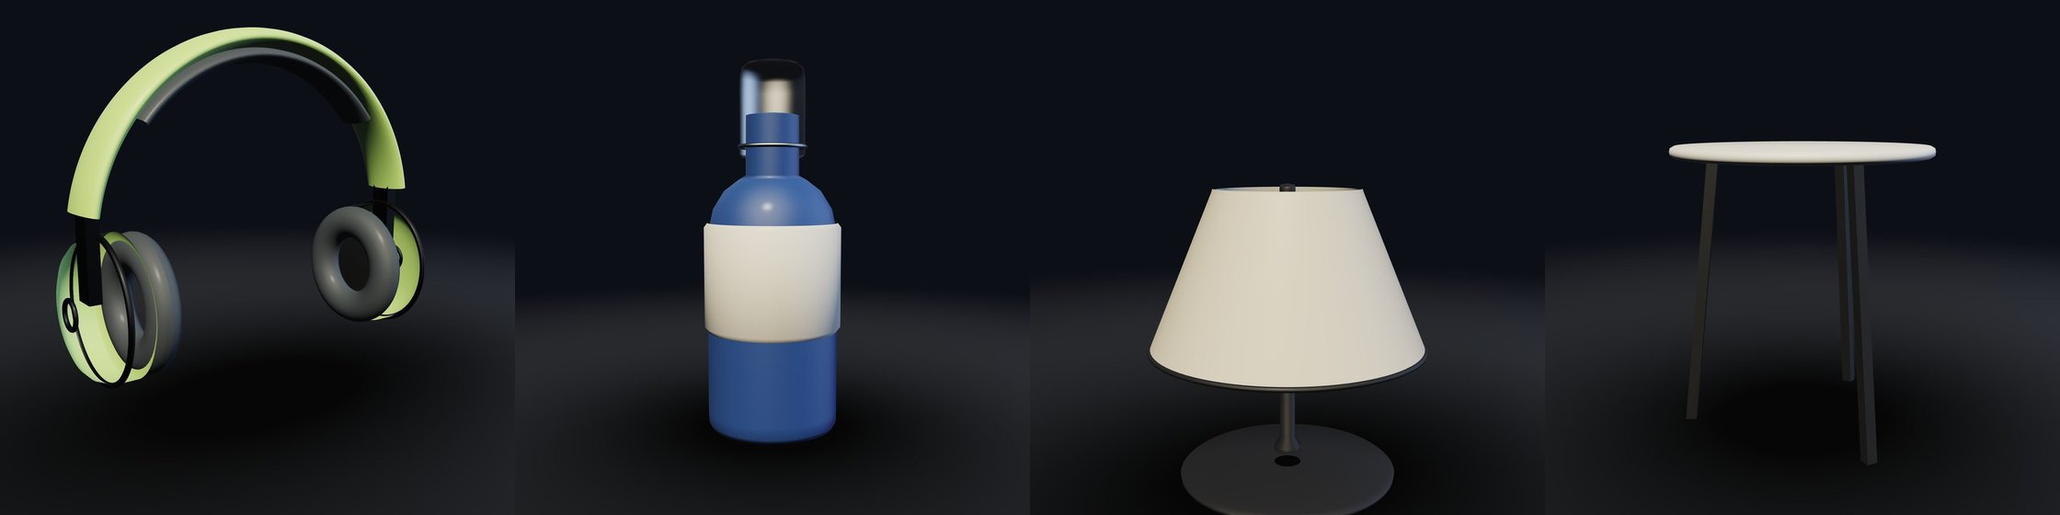
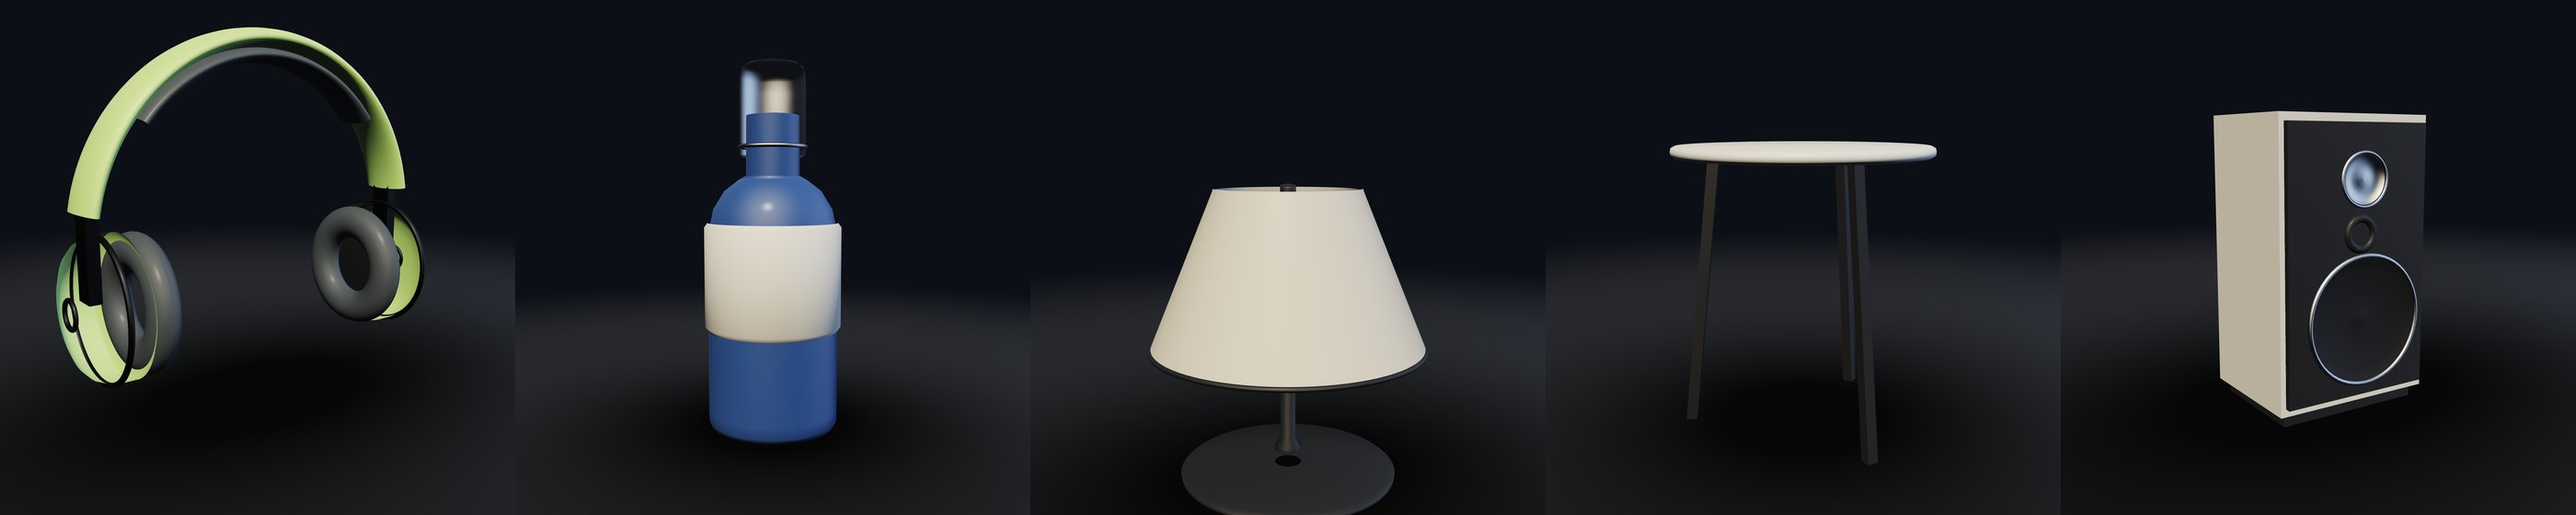
Regenerate the pack at 480, and pick the listing images deliberately
The full run finished: 480 renders, 357 MB, which is the number the listing
already claimed. manifest.csv, the contact sheet, the thirty gallery heroes
and the portfolio banner are all rebuilt from it, and the public gallery now
shows every configuration rather than the twenty-four it had before.

Two things the generator was getting wrong, both only visible in the output:

The gallery builder sorted products against a hardcoded list of four and
crashed on 'speaker'. It now fails with a message naming the product to add,
rather than a ValueError from inside a sort key — the next product should not
cost anyone the ten minutes of reading a traceback that this one did.

The "four lighting presets" strip picked whichever speaker configuration came
first out of the dict, which turned out to be a black cabinet with the grille
fitted. Four near-identical dark slabs, for an image whose entire job is to
show the presets apart. It now picks a pale cabinet with the drivers exposed,
and the four presets are obvious at a glance.

Also adds gallery-colourways.jpg — one product across its six finishes — so
both of the listing's composed gallery slots exist as files instead of as a
manual step that never gets done.

Claude-Session: https://claude.ai/code/session_01NKCR5wESwo1fq5VH4T8GRn

diff --git a/portfolio/renders/index.html b/portfolio/renders/index.html
@@ -3,7 +3,16 @@
 <meta charset="utf-8">
 <meta name="viewport" content="width=device-width,initial-scale=1">
 <title>Studio Product Renders — Volume 1</title>
-<meta name="description" content="384 royalty-free 3D product renders at 2000x2000. Four products, six colourways each, four lighting setups, four camera angles — one consistent studio rig across every frame.">
+<meta name="description" content="480 royalty-free 3D product renders at 2000x2000. Five products, six colourways each, four lighting setups, four camera angles — one consistent studio rig across every frame.">
+<link rel="canonical" href="https://sushir-saxon.upfling.site/renders/">
+<meta property="og:type" content="website">
+<meta property="og:site_name" content="Sushir 3D Studio">
+<meta property="og:title" content="Studio Product Renders — Volume 1">
+<meta property="og:description" content="480 royalty-free 3D product renders at 2000x2000. One hand-written WebGL2 renderer, one lighting rig, every frame consistent.">
+<meta property="og:url" content="https://sushir-saxon.upfling.site/renders/">
+<meta property="og:image" content="https://sushir-saxon.upfling.site/renders/hero.jpg">
+<meta property="og:image:alt" content="Studio-lit renders of headphones, a bottle, a lamp, a side table and a bookshelf speaker, side by side">
+<meta name="twitter:card" content="summary_large_image">
 <style>
 :root{--bg:#05070b;--fg:#e8eef7;--dim:#8b97a8;--line:#1a2331;--acc:#6fe9ff}
 *{box-sizing:border-box}
@@ -30,6 +39,15 @@ ul.plain{color:var(--dim);max-width:68ch;padding-left:20px}
 ul.plain b{color:var(--fg)}
 footer{padding:40px 0 72px;color:var(--dim);font-size:14px;border-top:1px solid var(--line)}
 a{color:var(--acc)}
+.cta{background:linear-gradient(150deg,rgba(111,233,255,.07),rgba(184,255,115,.04));
+  border-radius:18px;padding:34px 30px;margin:44px 0;border:1px solid var(--line)}
+.cta h2{margin-top:0}
+.btnrow{display:flex;flex-wrap:wrap;gap:12px;margin:22px 0 0}
+.btn{display:inline-block;padding:12px 20px;border-radius:999px;font-size:14px;
+  font-weight:700;text-decoration:none;background:var(--acc);color:#04131a;
+  border:1px solid transparent}
+.btn.ghost{background:transparent;color:var(--fg);border-color:var(--line)}
+.btn:hover{opacity:.88}
 </style>
 <div class="wrap">
 <header>
@@ -102,12 +120,12 @@ a{color:var(--acc)}
         <figcaption><b>SERUM 30ML</b><span>Sage</span><code>SER1-SGE-MT-GLD-BLK</code></figcaption>
       </figure>
       <figure>
-        <img src="img/lamp_ARC1-BRS-BLK-DSC-NON_studio_hero.jpg" alt="Table lamp — Brass, studio lighting" loading="lazy" width="900" height="900">
-        <figcaption><b>ARC TABLE LAMP</b><span>Brass</span><code>ARC1-BRS-BLK-DSC-NON</code></figcaption>
+        <img src="img/lamp_ARC1-BRS-BLK-DSC-NON_studio_hero.jpg" alt="Table lamp — Spun brass, studio lighting" loading="lazy" width="900" height="900">
+        <figcaption><b>ARC TABLE LAMP</b><span>Spun brass</span><code>ARC1-BRS-BLK-DSC-NON</code></figcaption>
       </figure>
       <figure>
-        <img src="img/lamp_ARC1-CHR-CHR-DSC-INL_studio_hero.jpg" alt="Table lamp — Chrome, studio lighting" loading="lazy" width="900" height="900">
-        <figcaption><b>ARC TABLE LAMP</b><span>Chrome</span><code>ARC1-CHR-CHR-DSC-INL</code></figcaption>
+        <img src="img/lamp_ARC1-CHR-CHR-DSC-INL_studio_hero.jpg" alt="Table lamp — Charcoal, studio lighting" loading="lazy" width="900" height="900">
+        <figcaption><b>ARC TABLE LAMP</b><span>Charcoal</span><code>ARC1-CHR-CHR-DSC-INL</code></figcaption>
       </figure>
       <figure>
         <img src="img/lamp_ARC1-LIN-BLK-PLT-NON_studio_hero.jpg" alt="Table lamp — Linen, studio lighting" loading="lazy" width="900" height="900">
@@ -130,8 +148,8 @@ a{color:var(--acc)}
         <figcaption><b>FORM 62</b><span>Brass</span><code>FRM1-BRS-MT-OAK-RNG</code></figcaption>
       </figure>
       <figure>
-        <img src="img/table_FRM1-CHR-OL-BRS-RNG_studio_hero.jpg" alt="Side table — Chrome, studio lighting" loading="lazy" width="900" height="900">
-        <figcaption><b>FORM 62</b><span>Chrome</span><code>FRM1-CHR-OL-BRS-RNG</code></figcaption>
+        <img src="img/table_FRM1-CHR-OL-BRS-RNG_studio_hero.jpg" alt="Side table — Charcoal, studio lighting" loading="lazy" width="900" height="900">
+        <figcaption><b>FORM 62</b><span>Charcoal</span><code>FRM1-CHR-OL-BRS-RNG</code></figcaption>
       </figure>
       <figure>
         <img src="img/table_FRM1-MAR-MT-BLK-NON_studio_hero.jpg" alt="Side table — Carrara, studio lighting" loading="lazy" width="900" height="900">
@@ -149,6 +167,30 @@ a{color:var(--acc)}
         <img src="img/table_FRM1-WAL-LQ-OAK-RNG_studio_hero.jpg" alt="Side table — Walnut, studio lighting" loading="lazy" width="900" height="900">
         <figcaption><b>FORM 62</b><span>Walnut</span><code>FRM1-WAL-LQ-OAK-RNG</code></figcaption>
       </figure>
+      <figure>
+        <img src="img/speaker_MON5-ASH-MT-BLK-ON_studio_hero.jpg" alt="Bookshelf speaker — Black ash, studio lighting" loading="lazy" width="900" height="900">
+        <figcaption><b>MONITOR 5</b><span>Black ash</span><code>MON5-ASH-MT-BLK-ON</code></figcaption>
+      </figure>
+      <figure>
+        <img src="img/speaker_MON5-IVO-ST-SLV-OFF_studio_hero.jpg" alt="Bookshelf speaker — Bone white, studio lighting" loading="lazy" width="900" height="900">
+        <figcaption><b>MONITOR 5</b><span>Bone white</span><code>MON5-IVO-ST-SLV-OFF</code></figcaption>
+      </figure>
+      <figure>
+        <img src="img/speaker_MON5-OAK-GL-CPR-OFF_studio_hero.jpg" alt="Bookshelf speaker — White oak, studio lighting" loading="lazy" width="900" height="900">
+        <figcaption><b>MONITOR 5</b><span>White oak</span><code>MON5-OAK-GL-CPR-OFF</code></figcaption>
+      </figure>
+      <figure>
+        <img src="img/speaker_MON5-OXB-MT-CPR-OFF_studio_hero.jpg" alt="Bookshelf speaker — Oxblood, studio lighting" loading="lazy" width="900" height="900">
+        <figcaption><b>MONITOR 5</b><span>Oxblood</span><code>MON5-OXB-MT-CPR-OFF</code></figcaption>
+      </figure>
+      <figure>
+        <img src="img/speaker_MON5-SGE-GL-BRS-ON_studio_hero.jpg" alt="Bookshelf speaker — Sage, studio lighting" loading="lazy" width="900" height="900">
+        <figcaption><b>MONITOR 5</b><span>Sage</span><code>MON5-SGE-GL-BRS-ON</code></figcaption>
+      </figure>
+      <figure>
+        <img src="img/speaker_MON5-WAL-ST-BRS-ON_studio_hero.jpg" alt="Bookshelf speaker — Walnut, studio lighting" loading="lazy" width="900" height="900">
+        <figcaption><b>MONITOR 5</b><span>Walnut</span><code>MON5-WAL-ST-BRS-ON</code></figcaption>
+      </figure>
 </div>
 
 <section>
@@ -164,6 +206,18 @@ a{color:var(--acc)}
       environment. It reads as a clean product render — which is the point.</li>
   </ul>
   <p>Better to lose a sale to an honest limitation than take one and eat a refund.</p>
+</section>
+
+<section class="cta">
+  <h2>Getting the set</h2>
+  <p>The full pack is 480 files at 2000&thinsp;×&thinsp;2000 — every configuration
+  above, under four lighting setups, from four camera angles. If you want it,
+  or you want this same rig pointed at <em>your</em> product instead of an
+  invented one, say so and I&rsquo;ll send the details.</p>
+  <p class="btnrow">
+    <a class="btn" href="mailto:windingsky9@gmail.com?subject=Studio%20Product%20Renders%20%E2%80%94%20Volume%201">Ask about the pack</a>
+    <a class="btn ghost" href="mailto:windingsky9@gmail.com?subject=Renders%20of%20my%20own%20product">Renders of my own product</a>
+  </p>
 </section>
 
 <section>
